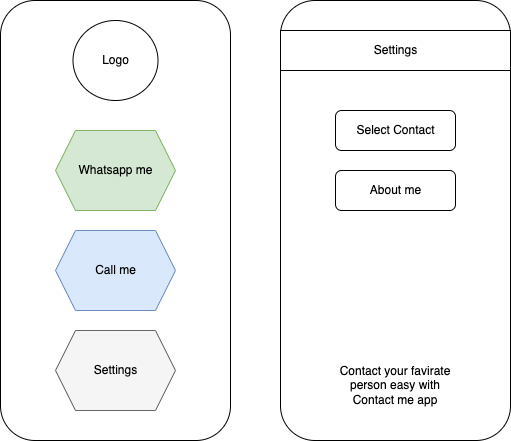
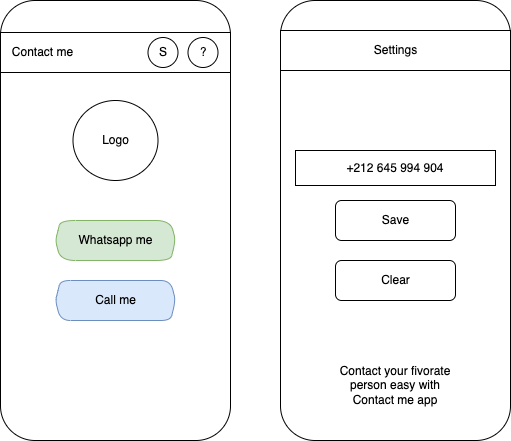
fix issues

diff --git a/lib/screens/home.dart b/lib/screens/home.dart
@@ -101,7 +101,7 @@ class _HomeScreenState extends State<HomeScreen> {
             tooltip: 'About',
             icon: const Icon(Icons.info_outline),
             onPressed: () {
-              () => AboutMe(
+              AboutMe(
                 applicationName: 'Contact Me',
                 version: '1.0.0',
                 description:
@@ -128,6 +128,12 @@ class _HomeScreenState extends State<HomeScreen> {
                   mainAxisAlignment: MainAxisAlignment.center,
                   crossAxisAlignment: CrossAxisAlignment.stretch,
                   children: [
+                    CircleAvatar(
+                      maxRadius: 120,
+                      child: Image.asset('assets/icon.png'),
+                      backgroundColor: Colors.white,
+                    ),
+                    const SizedBox(height: 24),
                     Text(
                       'Saved number: $phoneLabel',
                       textAlign: TextAlign.center,
@@ -152,22 +158,6 @@ class _HomeScreenState extends State<HomeScreen> {
                       ),
                     ),
                     const SizedBox(height: 20),
-                    // OutlinedButton.icon(
-                    //   onPressed: () async {
-                    //     final updated = await Navigator.push<String?>(
-                    //       context,
-                    //       MaterialPageRoute(
-                    //         builder: (_) => const SettingsScreen(),
-                    //       ),
-                    //     );
-                    //     if (updated != null) setState(() => _phone = updated);
-                    //   },
-                    //   icon: const Icon(Icons.settings),
-                    //   label: const Text('Settings'),
-                    //   style: OutlinedButton.styleFrom(
-                    //     padding: const EdgeInsets.symmetric(vertical: 15),
-                    //   ),
-                    // ),
                   ],
                 ),
               ),

diff --git a/lib/services/contact_service.dart b/lib/services/contact_service.dart
@@ -13,35 +13,17 @@
 
 //       // Convert contacts to a map
 //       List<Map<String, dynamic>> contactsJson = contacts.map((contact) {
-//         return {
-//           'displayName': contact.displayName,
-//           'givenName': contact.givenName,
-//           'middleName': contact.middleName,
-//           'familyName': contact.familyName,
-//           'prefix': contact.prefix,
-//           'suffix': contact.suffix,
-//           'company': contact.company,
-//           'jobTitle': contact.jobTitle,
-//           'emails': contact.emails?.map((e) => {'label': e.label, 'value': e.value}).toList(),
-//           'phones': contact.phones?.map((p) => {'label': p.label, 'value': p.value}).toList(),
-//           'postalAddresses': contact.postalAddresses?.map((a) => {
+// Lightweight mobile contact sync stub.
+// The original implementation used `contacts_service`, which was removed
+// from the project's dependencies to avoid Android build/plugin issues.
+// If you add `contacts_service` back, replace this with the real impl.
+
+class ContactSyncService {
+  Future<void> syncContacts() async {
+    // No-op placeholder for mobile platforms when the contacts plugin
+    // is unavailable. Keeps first-launch flow safe.
+    return;
+  }
+}
+
 //             'label': a.label,
-//             'street': a.street,
-//             'city': a.city,
-//             'postcode': a.postcode,
-//             'region': a.region,
-//             'country': a.country
-//           }).toList(),
-//           'avatar': contact.avatar,
-//         };
-//       }).toList();
-
-//       // Get the directory to save the file
-//       final directory = await getApplicationDocumentsDirectory();
-//       final file = File('${directory.path}/contacts.json');
-
-//       // Write the file
-//       await file.writeAsString(jsonEncode(contactsJson));
-//     }
-//   }
-// }

diff --git a/lib/screens/settings.dart b/lib/screens/settings.dart
@@ -44,6 +44,7 @@ class _SettingsScreenState extends State<SettingsScreen> {
     await StorageService.clearPhone();
     _controller.clear();
     _showSnack('Cleared');
+    if (mounted) Navigator.pop(context, '');
   }
 
   void _showSnack(String msg, {bool error = false}) {
@@ -78,7 +79,7 @@ class _SettingsScreenState extends State<SettingsScreen> {
                     keyboardType: TextInputType.phone,
                     decoration: const InputDecoration(
                       border: OutlineInputBorder(),
-                      hintText: '+1 555 012 3456',
+                      hintText: '+212 645 994 904',
                     ),
                   ),
                   const SizedBox(height: 16),

diff --git a/lib/main.dart b/lib/main.dart
@@ -1,5 +1,4 @@
 import 'package:contactme/screens/home.dart';
-import 'package:contactme/services/contact_sync.dart';
 import 'package:flutter/material.dart';
 import 'package:shared_preferences/shared_preferences.dart';
 
@@ -19,7 +18,7 @@ Future<void> _handleFirstLaunch() async {
 
   if (isFirstLaunch) {
     // This is the first launch, run the contact sync.
-    await ContactSyncService().syncContacts();
+    // await ContactSyncService().syncContacts();
 
     // Set the flag to false so this doesn't run again.
     await prefs.setBool(isFirstLaunchKey, false);

diff --git a/android/app/src/main/kotlin/com/example/contactme/MainActivity.kt b/android/app/src/main/kotlin/com/example/contactme/MainActivity.kt
@@ -1,4 +1,4 @@
-package com.example.contactme
+package com.eafmicroservice.contactme
 
 import io.flutter.embedding.android.FlutterActivity
 
